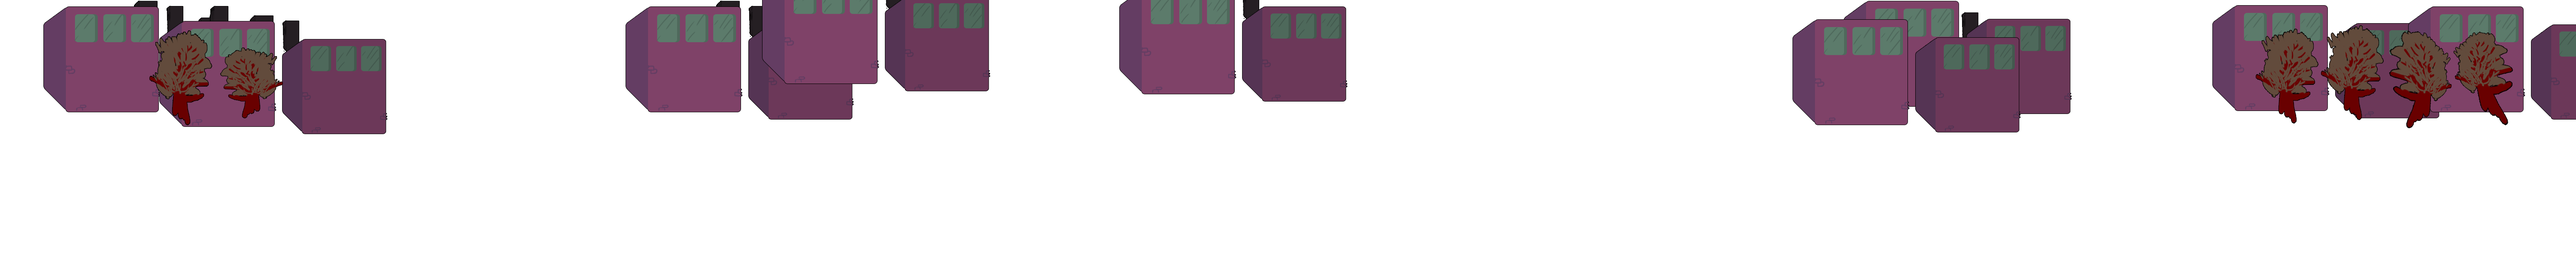
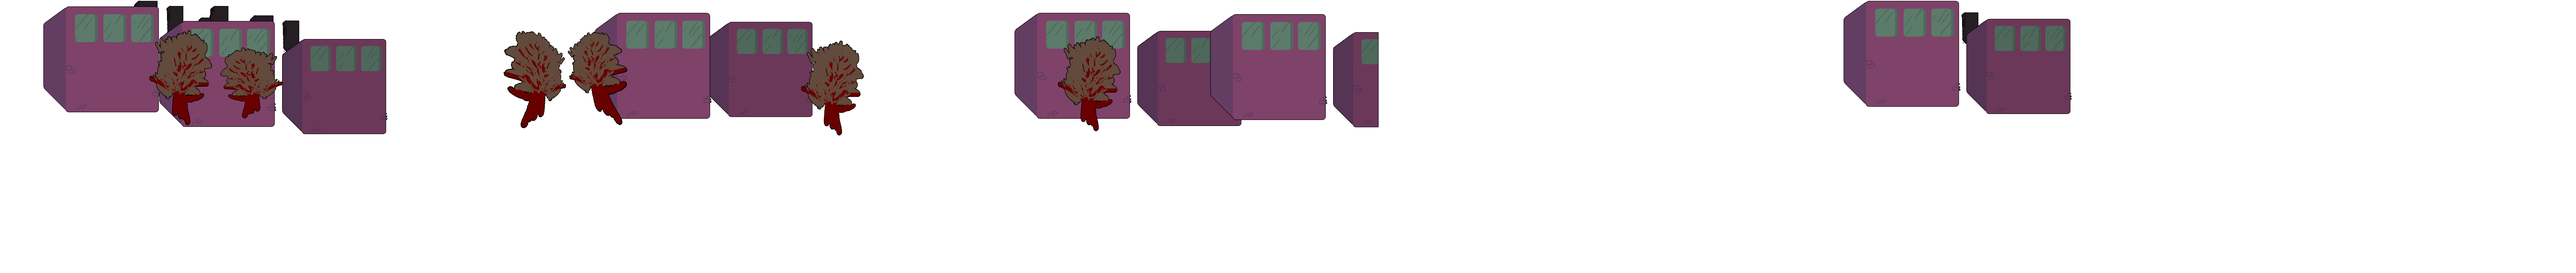
Changed backdrop, foreground and re-added hud

Changed region(s): [[0.187, 0.0, 0.561, 0.4772], [0.8415, 0.0, 1.0, 0.4474], [0.6857, 0.0597, 0.8103, 0.5071]]

diff --git a/sourcefiles/GXPEngine/HUD.cs b/sourcefiles/GXPEngine/HUD.cs
@@ -3,7 +3,7 @@ using System.Collections.Generic;
 using System.Drawing;
 using GXPEngine;
 using System.Collections.Specialized;
-
+using System.Drawing.Text;
 
 public class HUD : Sprite
 {
@@ -17,6 +17,8 @@ public class HUD : Sprite
     Canvas _pointsToAddInfo;
 
     Font _font;
+    PrivateFontCollection _pfc;
+
     Player _player;
     Level _level;
     Brush _healthBrushColor;
@@ -40,7 +42,10 @@ public class HUD : Sprite
         _pointsToAddInfo.x = 0;
         _pointsToAddInfo.y = 0;
 
-        _font = new Font(FontFamily.GenericSansSerif, 24);
+        
+        _pfc = new PrivateFontCollection();
+        _pfc.AddFontFile("assets\\font\\zig_____.ttf");
+        _font = new Font(_pfc.Families[0], 24);
     }
 
     private void ClearPointsToAddHUD() {
@@ -122,16 +127,16 @@ public class HUD : Sprite
             /* FlexMan Face */
             SetFlexManImage();
             /* Name */
-            _playerInfo.graphics.DrawString(_player.Name.ToUpper(), _font, Brushes.White, 120, 25); // name
+            _playerInfo.graphics.DrawString(_player.Name.ToUpper(), _font, Brushes.White, 115, 25); // name
             /* Score */
-            _playerInfo.graphics.DrawString(_player.Score.ToString("D8"), _font, Brushes.DarkOrange, 790, 25); // score
-            _playerInfo.graphics.DrawString("PTS", _font, Brushes.White, 946, 25); // score texts
+            _playerInfo.graphics.DrawString(_player.Score.ToString("D8"), _font, Brushes.DarkOrange, 700, 25); // score
+            _playerInfo.graphics.DrawString("PTS", _font, Brushes.White, 930, 25); // score texts
             /* Health */
-            _playerInfo.graphics.DrawString("HP", _font, Brushes.White, 120, 75); // hp text in front of hp bar
+            _playerInfo.graphics.DrawString("HP", _font, Brushes.White, 115, 81); // hp text in front of hp bar
             _playerInfo.graphics.DrawRectangle(Pens.WhiteSmoke, 180, 81, HEALTH_BAR_OUTLINE_WIDTH, 23); // hp bar outline
             _playerInfo.graphics.FillRectangle(GetHealthBrushColor(), 181, 82, GetHealthBarWidth(), 22); // hp bar itself
             /* Stamina */
-            _playerInfo.graphics.DrawString("STM", _font, Brushes.White, 560, 75); // stamina text in front of stamina bar
+            _playerInfo.graphics.DrawString("STM", _font, Brushes.White, 553, 81); // stamina text in front of stamina bar
             _playerInfo.graphics.DrawRectangle(Pens.WhiteSmoke, 645, 81, STAMINA_BAR_OUTLINE_WIDTH, 23); // stamina bar outline
             _playerInfo.graphics.FillRectangle((_player.HasEnoughStamina() ? Brushes.RoyalBlue : Brushes.Red), 646, 82, GetStaminaBarWidth(), 22); // stamina bar itself
 

diff --git a/sourcefiles/GXPEngine/Background.cs b/sourcefiles/GXPEngine/Background.cs
@@ -23,9 +23,9 @@ public class Background : Sprite
 
     public void MoveBackDrop(bool moveToLeft) {
         if (moveToLeft) {
-            _backDrop.x -= (scaleX + 0.15f);
+            _backDrop.x -= (scaleX + 0.5f);
         } else {
-            _backDrop.x += (scaleX + 0.15f);
+            _backDrop.x += (scaleX + 0.5f);
         }
     }
 
